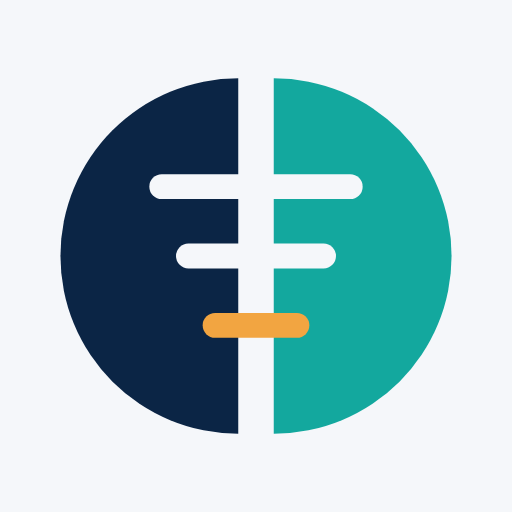
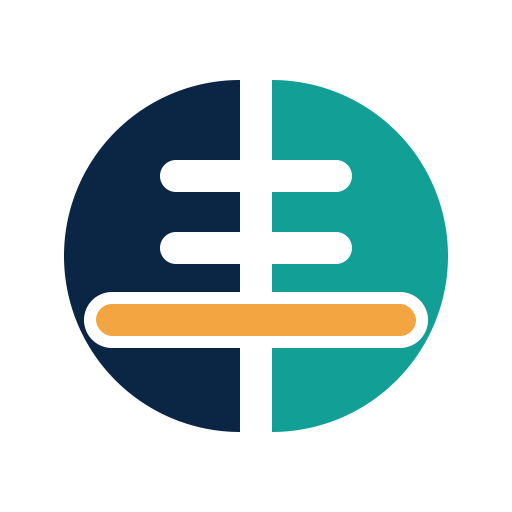
Profile: the refined FTEF mark, light and dark (#1)
The mark from ftef-spec/spec brand/ (generated by brand/build.py there):
SVG for light and dark themes via <picture>; ftef-mark.png re-rendered
from the new mark (512 px, transparent) for existing links.

Assisted-by: Claude Code (Claude Opus 5.5)

diff --git a/profile/README.md b/profile/README.md
@@ -1,4 +1,9 @@
-<p align="center"><img src="ftef-mark.png" width="96" alt="FTEF mark: two domains joined by rungs of evidence"></p>
+<p align="center">
+  <picture>
+    <source media="(prefers-color-scheme: dark)" srcset="ftef-mark-dark.svg">
+    <img src="ftef-mark.svg" width="96" alt="FTEF mark: two domains joined by rungs of evidence">
+  </picture>
+</p>
 
 # FTEF: Federated Trust Evidence Framework
 
